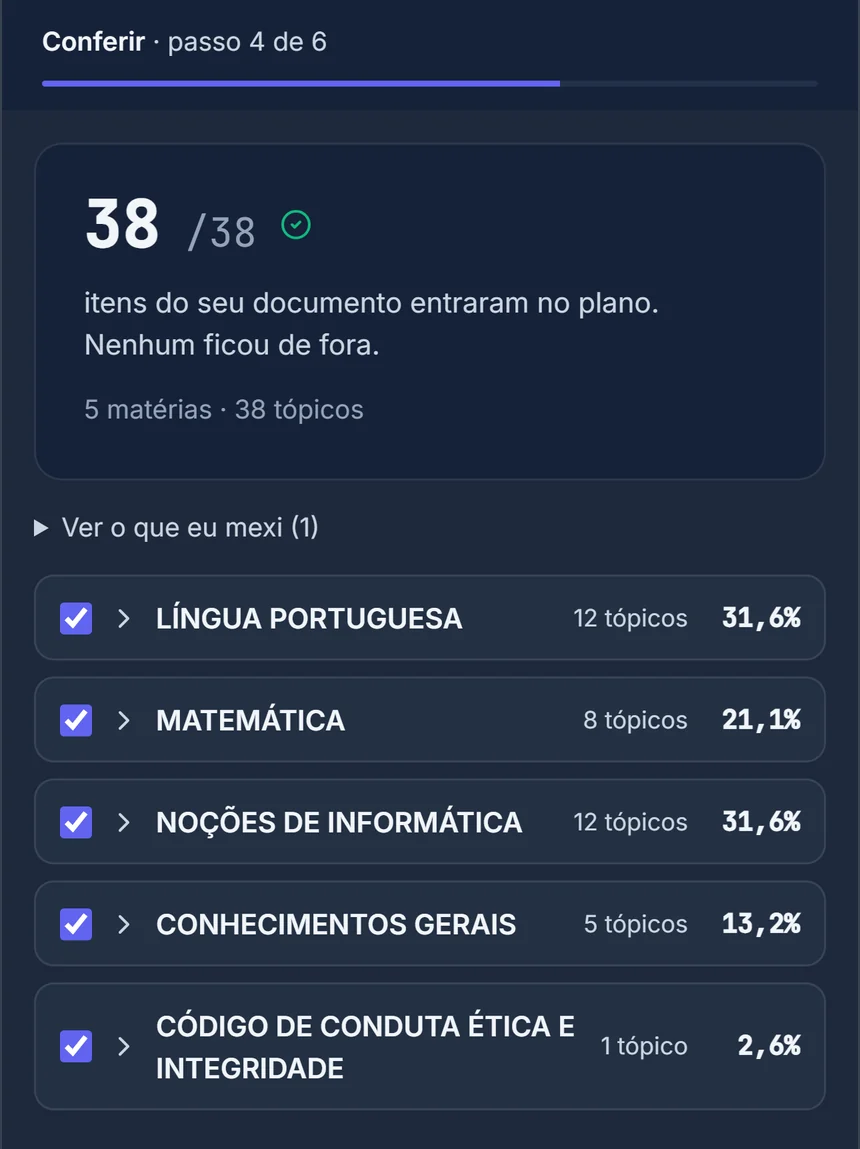
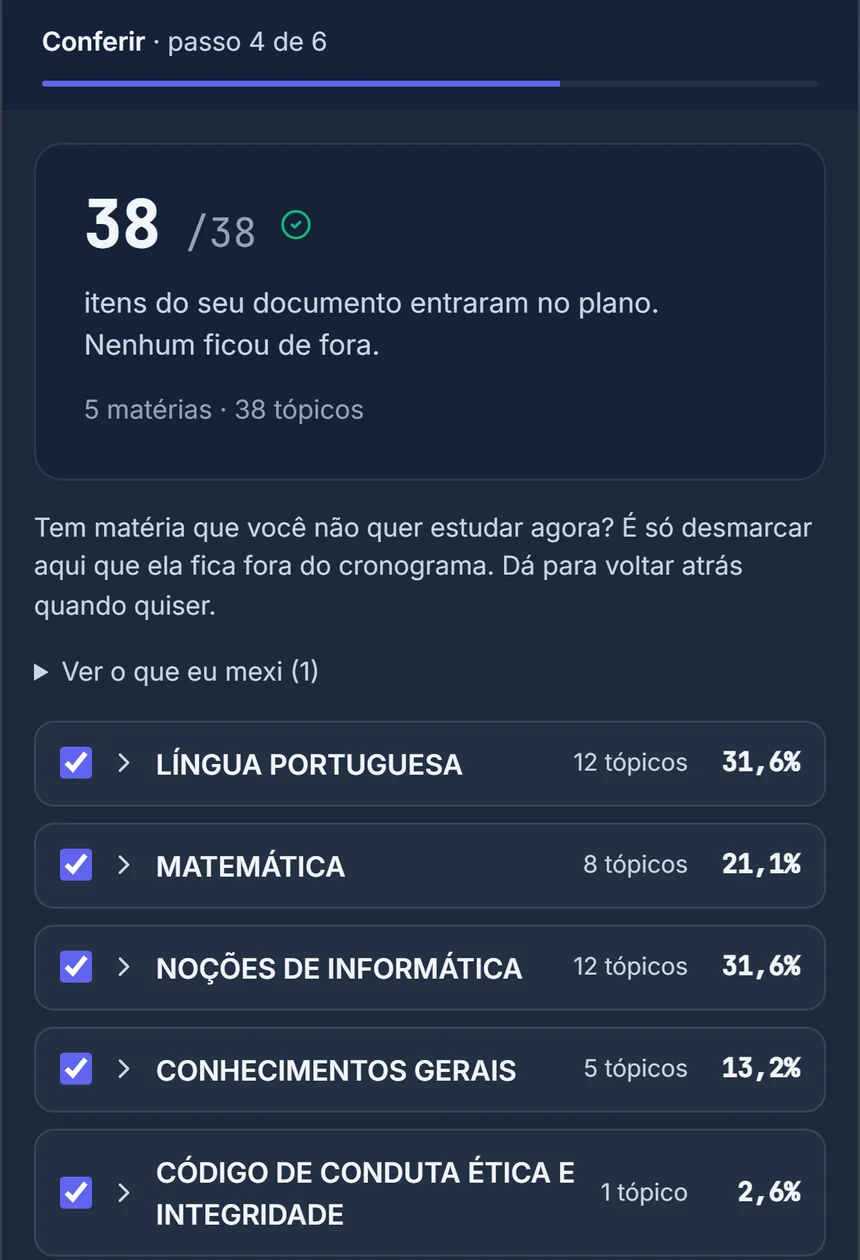
Traga o edital: conferencia recapturada com o aviso de desmarcar materia
A tela mudou as 09:30 (app ec416dc6): entre o 38/38 e a lista de materias
entrou a frase que diz que da para tirar materia do plano. As duas telas
da secao passam a ter a mesma altura.

diff --git a/src/components/TragaOEdital.jsx b/src/components/TragaOEdital.jsx
@@ -26,7 +26,7 @@ function Tela({ src, alt, legenda, className = '' }) {
     return (
         <figure className={className}>
             <div className="overflow-hidden rounded-2xl border border-white/10 bg-surface-900 shadow-elevation-5">
-                <img src={src} alt={alt} width="860" height="1149" className="block h-auto w-full" loading="lazy" decoding="async" />
+                <img src={src} alt={alt} width="860" height="1260" className="block h-auto w-full" loading="lazy" decoding="async" />
             </div>
             <figcaption className="mt-3 text-center text-body-sm text-white/60">{legenda}</figcaption>
         </figure>
@@ -75,7 +75,7 @@ export function TragaOEdital() {
                         <Tela
                             className="mx-auto w-full max-w-[340px] md:max-w-none"
                             src="/screenshots/edital-pdf-conferir.webp"
-                            alt="Conferência do RendiPro: 38 de 38 itens do edital entraram no plano, com Língua Portuguesa, Matemática, Noções de Informática, Conhecimentos Gerais e Código de Conduta, cada uma com seus tópicos e sua fatia do plano"
+                            alt="Conferência do RendiPro: 38 de 38 itens do edital entraram no plano, com o aviso de que dá para desmarcar a matéria que não quer estudar agora, e Língua Portuguesa, Matemática, Noções de Informática, Conhecimentos Gerais e Código de Conduta, cada uma com seus tópicos e sua fatia do plano"
                             legenda="Depois, cada matéria antes de criar o plano."
                         />
                     </div>
